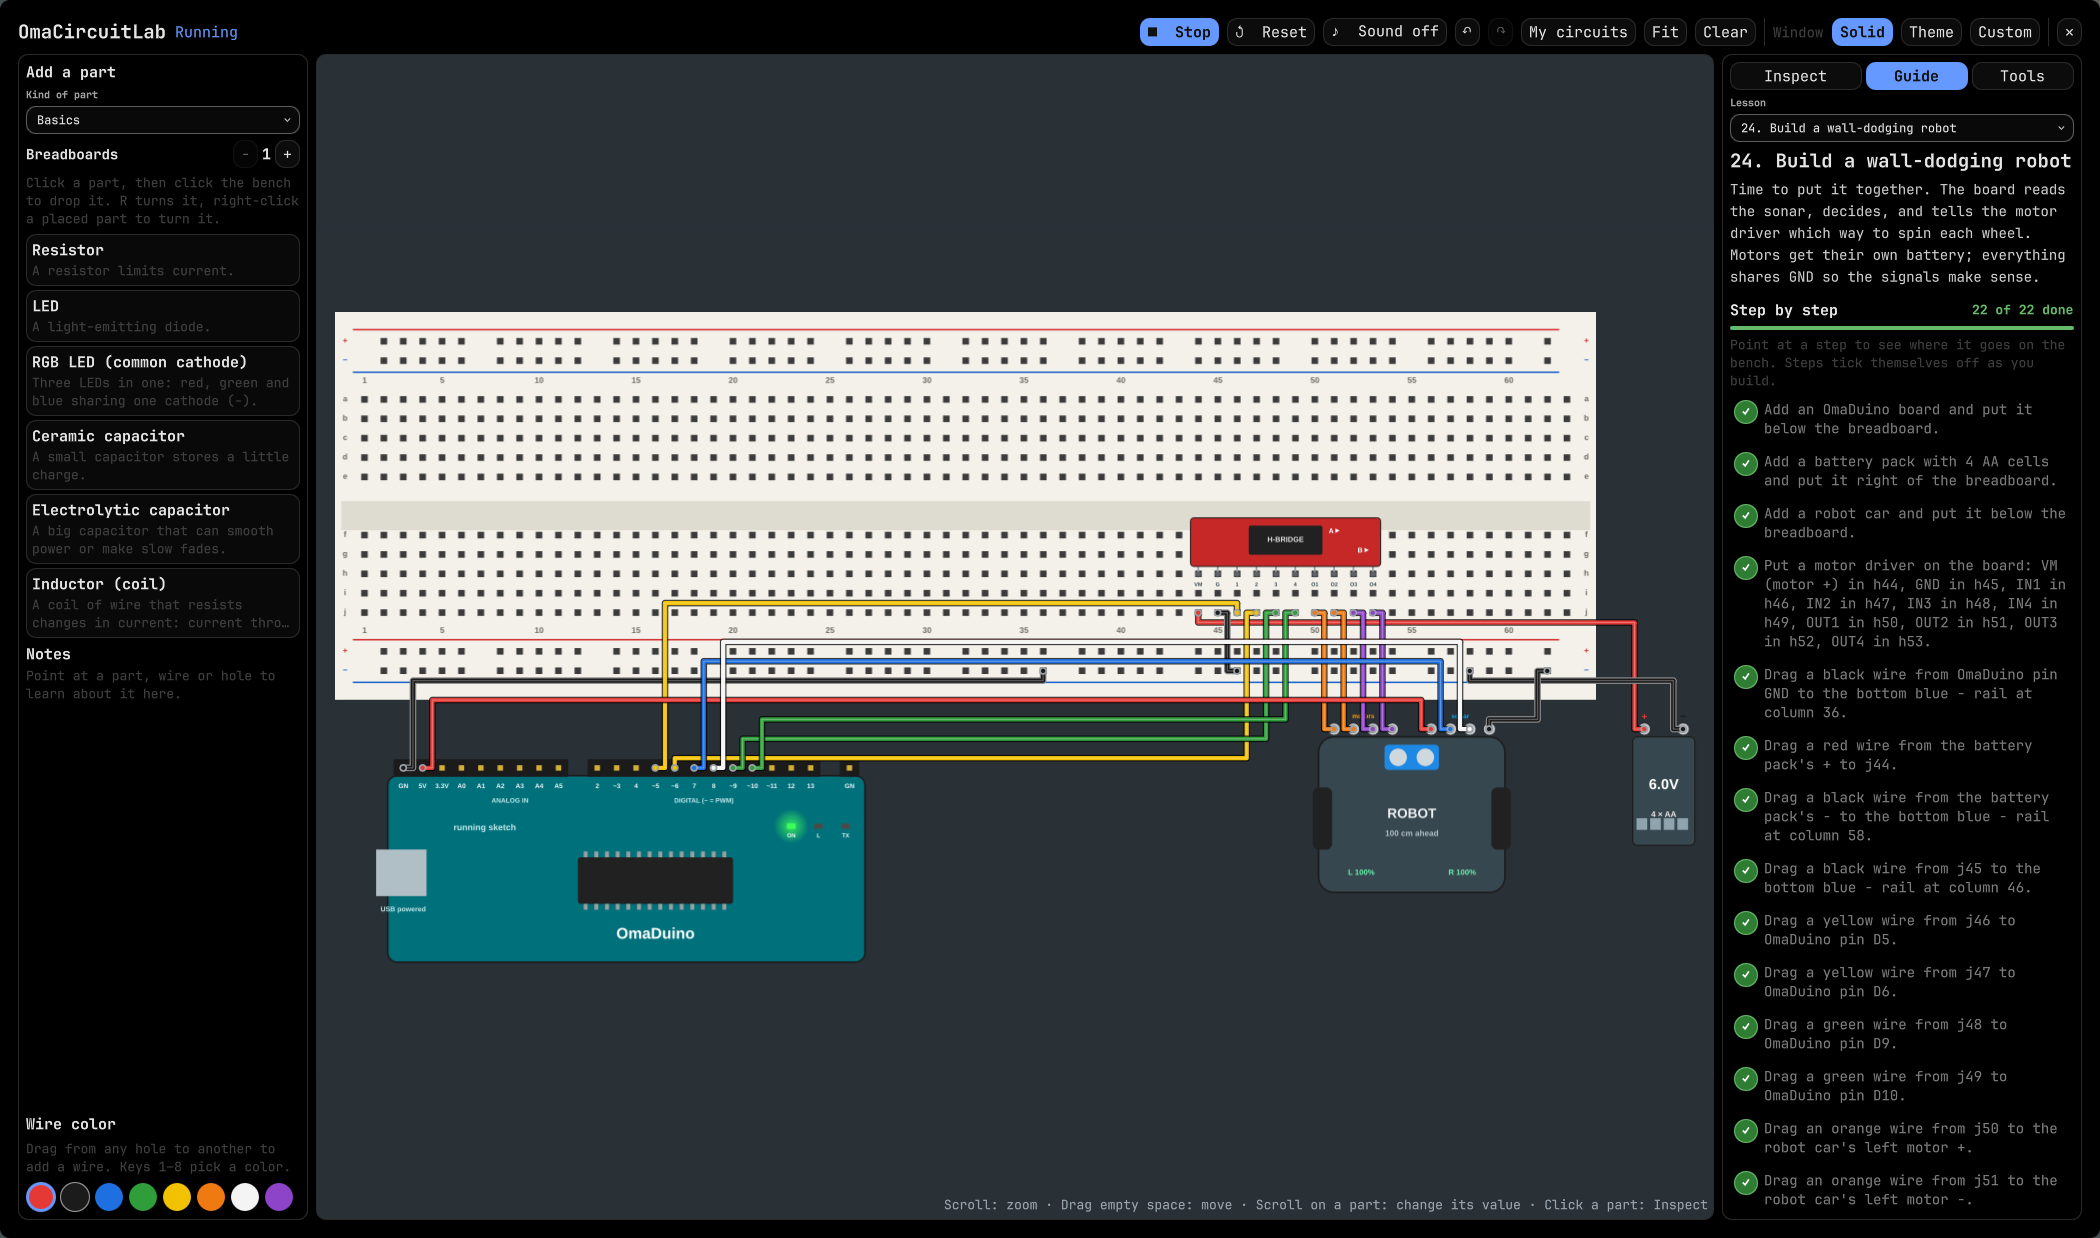
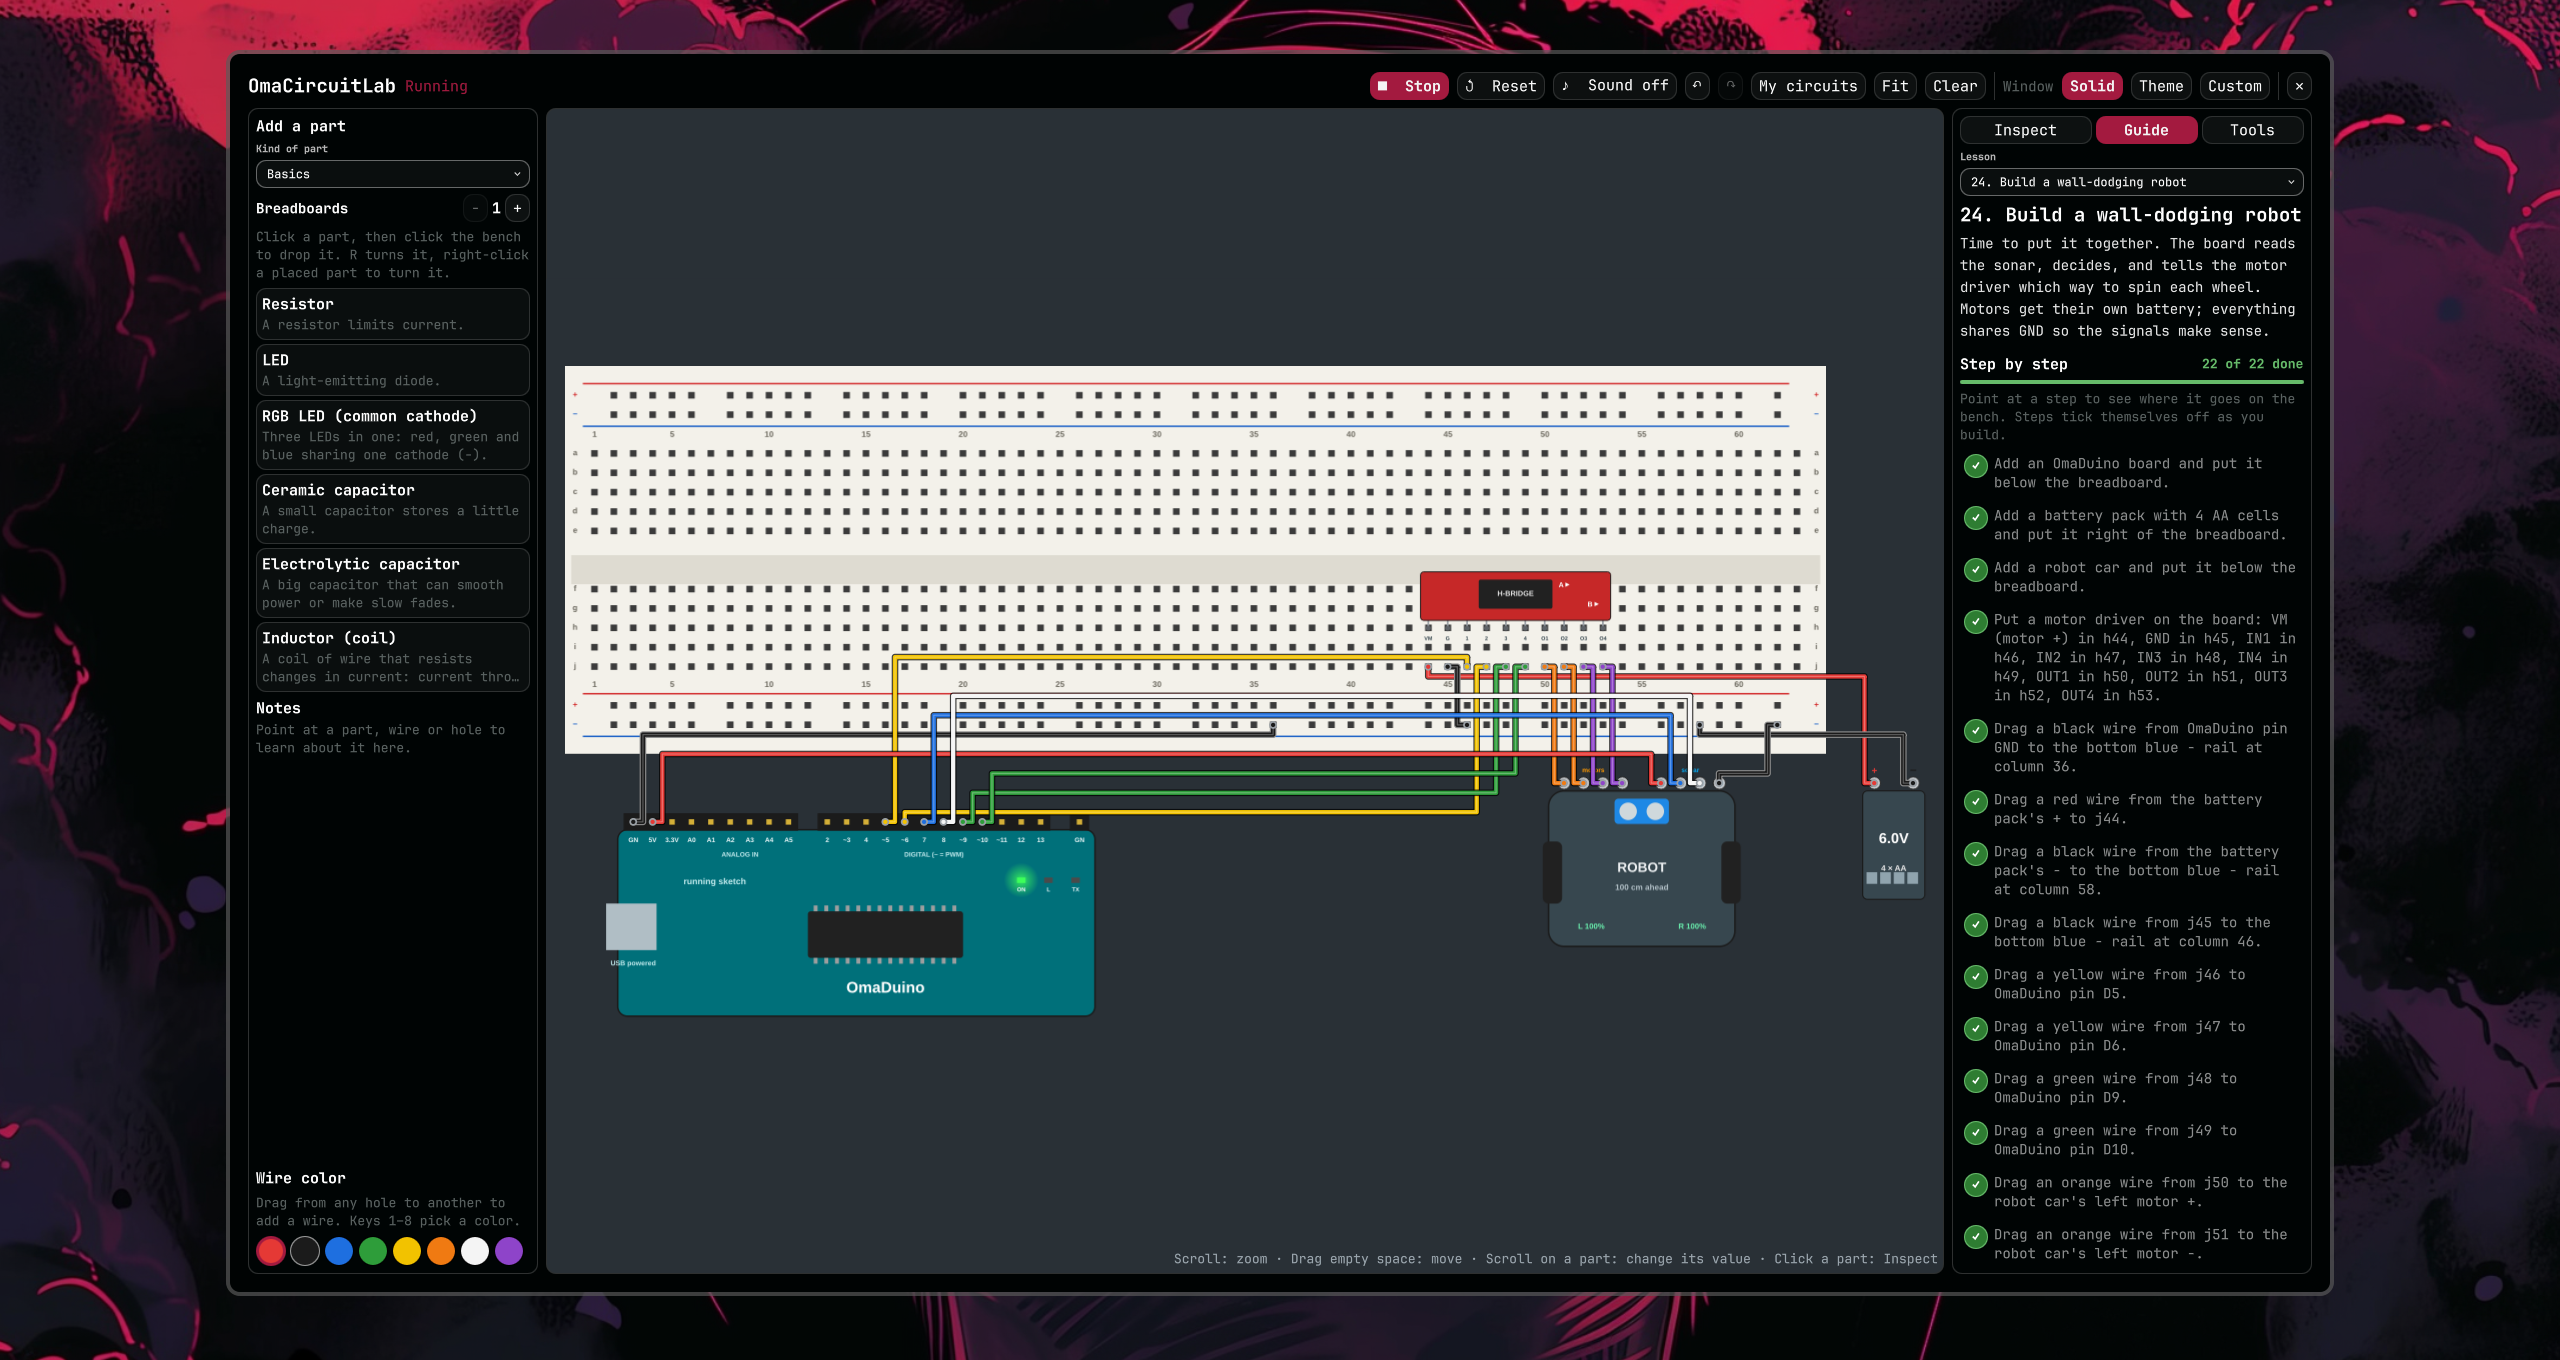
Preview: the robot lesson on the desktop

diff --git a/README.md b/README.md
@@ -2,7 +2,7 @@
 
 A breadboard circuit simulator for learning electronics on Omarchy. Drop parts onto a full-size breadboard, wire them with neat square jumpers, press **Run**, and watch LEDs light, meters read and motors spin. Hover anything for a plain-language explanation, and follow the **Learner's Guide** from a first LED to driving a motor.
 
-![The wall-dodging robot lesson: an OmaDuino, a motor driver, a sonar and a robot car](preview.png)
+![OmaCircuitLab running the wall-dodging robot lesson on the Crimson Veil theme](preview.png)
 
 ## Parts
 
